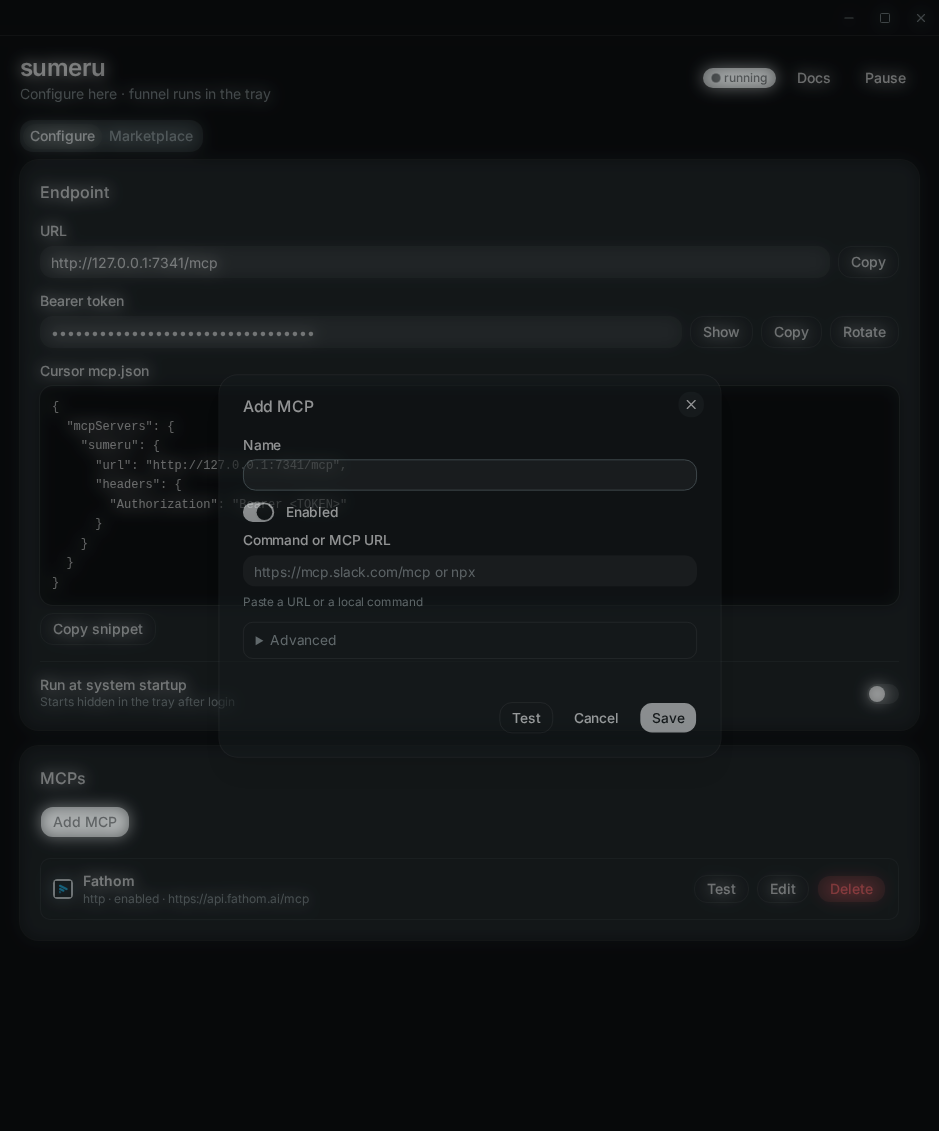
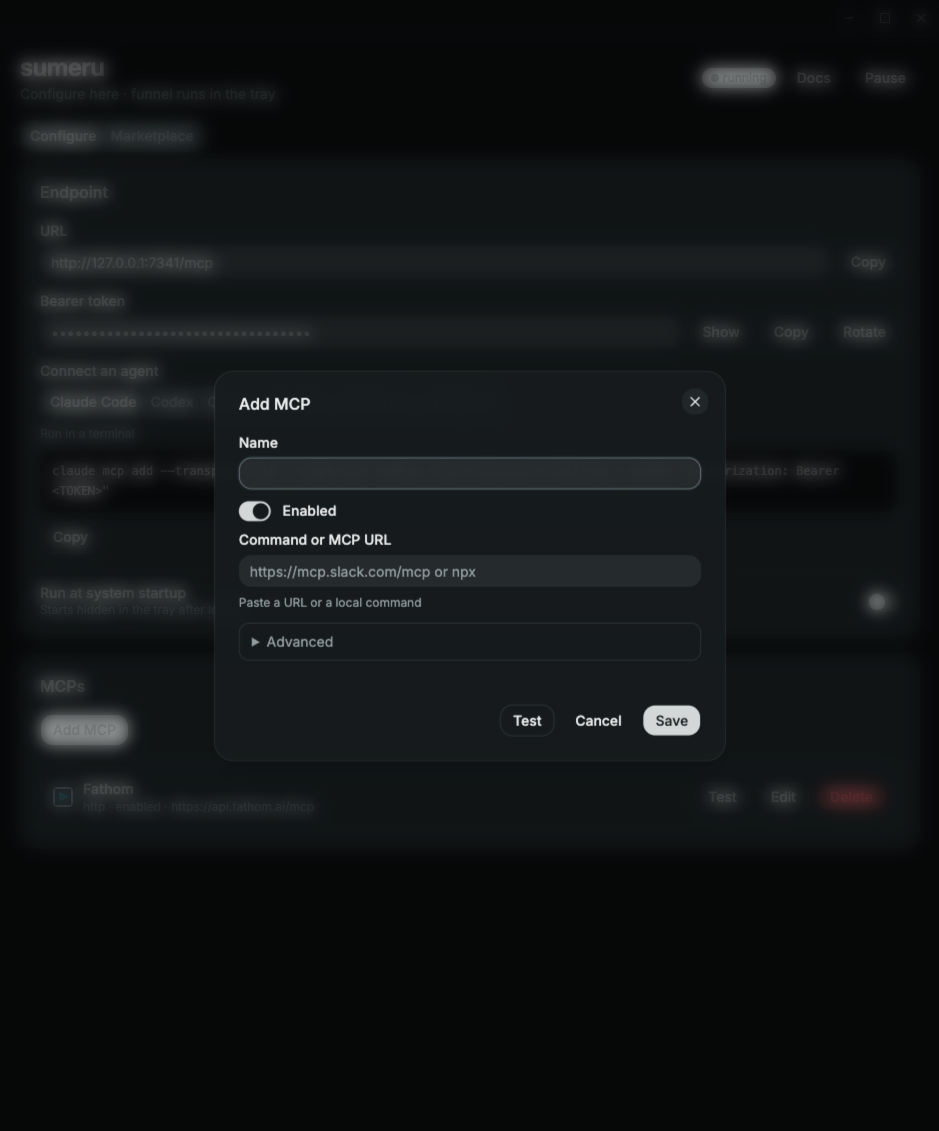
feat: connect an agent from Configure
Replace the Cursor-only snippet with a picker for Claude Code, Codex,
Cursor, VS Code, Gemini CLI, and Windsurf. Cursor and VS Code get
one-click install deeplinks; the rest get a copyable command or config
snippet. Copy/install always use the real token while the preview stays
masked. open_url now also allows cursor: and vscode: deeplinks.

Docs: connect-cursor cookbook becomes connect-agent; screenshots
regenerated.

diff --git a/src/components/Endpoint.svelte b/src/components/Endpoint.svelte
@@ -11,29 +11,21 @@
   import { Switch } from "$lib/components/ui/switch/index.js";
   import * as Card from "$lib/components/ui/card/index.js";
   import { Separator } from "$lib/components/ui/separator/index.js";
+  import * as Tabs from "$lib/components/ui/tabs/index.js";
+  import { agentInstalls } from "$lib/agents.js";
 
   let { status, token, autostart = $bindable(false), refresh } = $props();
 
   let revealToken = $state(false);
 
-  const snippet = $derived(
-    JSON.stringify(
-      {
-        mcpServers: {
-          sumeru: {
-            url: status?.endpoint ?? "",
-            headers: {
-              Authorization: revealToken
-                ? `Bearer ${token}`
-                : "Bearer <TOKEN>",
-            },
-          },
-        },
-      },
-      null,
-      2,
-    ),
-  );
+  let agent = $state("claude-code");
+
+  /**
+   * Inputs: bearer token or placeholder. Outputs: selected agent install recipe.
+   */
+  const install = (t) =>
+    agentInstalls(status?.endpoint ?? "", t).find((a) => a.id === agent);
+  const shown = $derived(install(revealToken ? token : "<TOKEN>"));
 
   /**
    * Inputs: text. Outputs: clipboard write or user-facing error.
@@ -41,6 +33,17 @@
   async function copy(text) {
     try {
       await navigator.clipboard.writeText(text);
+    } catch (e) {
+      alert(String(e));
+    }
+  }
+
+  /**
+   * Inputs: agent deeplink. Outputs: agent install prompt opened, or user-facing error.
+   */
+  async function openLink(url) {
+    try {
+      await api.openUrl(url);
     } catch (e) {
       alert(String(e));
     }
@@ -103,11 +106,24 @@
       </div>
     </div>
     <div class="grid gap-2">
-      <Label>Cursor mcp.json</Label>
+      <Label>Connect an agent</Label>
+      <Tabs.Root bind:value={agent}>
+        <Tabs.List>
+          {#each agentInstalls("", "") as a (a.id)}
+            <Tabs.Trigger value={a.id}>{a.name}</Tabs.Trigger>
+          {/each}
+        </Tabs.List>
+      </Tabs.Root>
+      <p class="text-muted-foreground text-xs m-0">{shown.hint}</p>
       <pre
-        class="m-0 overflow-auto rounded-2xl bg-background p-3 font-mono text-xs leading-relaxed text-foreground ring-1 ring-foreground/10"
-      >{snippet}</pre>
-      <Button variant="outline" class="w-fit" onclick={() => copy(snippet)}>Copy snippet</Button>
+        class="m-0 overflow-auto whitespace-pre-wrap break-words rounded-2xl bg-background p-3 font-mono text-xs leading-relaxed text-foreground ring-1 ring-foreground/10"
+      >{shown.text}</pre>
+      <div class="flex gap-2 flex-wrap">
+        {#if shown.link}
+          <Button onclick={() => openLink(install(token).link)}>Add to {shown.name}</Button>
+        {/if}
+        <Button variant="outline" onclick={() => copy(install(token).text)}>Copy</Button>
+      </div>
     </div>
     <Separator />
     <div class="flex items-center justify-between gap-4">

diff --git a/src/lib/agents.js b/src/lib/agents.js
@@ -1,0 +1,54 @@
+/**
+ * Build per-agent install recipes for the Sumeru endpoint.
+ *
+ * Inputs: endpoint URL, bearer token (or a placeholder for display).
+ * Outputs: `[{ id, name, hint, text, link? }]` — `text` is the command or
+ * config snippet to copy; `link` is an optional one-click install deeplink.
+ */
+export function agentInstalls(url, token) {
+  const auth = `Bearer ${token}`;
+  const headers = { Authorization: auth };
+  const json = (o) => JSON.stringify(o, null, 2);
+  const cursor = { url, headers };
+  const vscode = { type: "http", url, headers };
+  return [
+    {
+      id: "claude-code",
+      name: "Claude Code",
+      hint: "Run in a terminal",
+      text: `claude mcp add --transport http --scope user sumeru ${url} --header "Authorization: ${auth}"`,
+    },
+    {
+      id: "codex",
+      name: "Codex",
+      hint: "Paste into ~/.codex/config.toml (replace any existing [mcp_servers.sumeru])",
+      text: `[mcp_servers.sumeru]\nurl = "${url}"\nhttp_headers = { Authorization = "${auth}" }`,
+    },
+    {
+      id: "cursor",
+      name: "Cursor",
+      hint: "Click Add to Cursor, or paste into ~/.cursor/mcp.json",
+      text: json({ mcpServers: { sumeru: cursor } }),
+      link: `cursor://anysphere.cursor-deeplink/mcp/install?name=sumeru&config=${encodeURIComponent(btoa(JSON.stringify(cursor)))}`,
+    },
+    {
+      id: "vscode",
+      name: "VS Code",
+      hint: "Click Add to VS Code, or paste into your user mcp.json",
+      text: json({ servers: { sumeru: vscode } }),
+      link: `vscode:mcp/install?${encodeURIComponent(JSON.stringify({ name: "sumeru", ...vscode }))}`,
+    },
+    {
+      id: "gemini",
+      name: "Gemini CLI",
+      hint: "Run in a terminal",
+      text: `gemini mcp add --scope user --transport http --header "Authorization: ${auth}" sumeru ${url}`,
+    },
+    {
+      id: "windsurf",
+      name: "Windsurf",
+      hint: "Paste into ~/.codeium/windsurf/mcp_config.json",
+      text: json({ mcpServers: { sumeru: { serverUrl: url, headers } } }),
+    },
+  ];
+}

diff --git a/src/lib/agents.test.js b/src/lib/agents.test.js
@@ -1,0 +1,51 @@
+import assert from "node:assert/strict";
+import { describe, it } from "node:test";
+import { agentInstalls } from "./agents.js";
+
+const URL_ = "http://127.0.0.1:7341/mcp";
+const TOKEN = "tok+/=";
+const byId = (id) => agentInstalls(URL_, TOKEN).find((a) => a.id === id);
+
+describe("agent install recipes", () => {
+  it("covers each supported agent once", () => {
+    assert.deepEqual(
+      agentInstalls(URL_, TOKEN).map((a) => a.id),
+      ["claude-code", "codex", "cursor", "vscode", "gemini", "windsurf"],
+    );
+  });
+
+  it("embeds endpoint and bearer token in every snippet", () => {
+    for (const a of agentInstalls(URL_, TOKEN)) {
+      assert.ok(a.text.includes(URL_), a.id);
+      assert.ok(a.text.includes(`Bearer ${TOKEN}`), a.id);
+    }
+  });
+
+  it("builds a Cursor deeplink with base64 mcp.json config", () => {
+    const link = new URL(byId("cursor").link);
+    assert.equal(link.protocol, "cursor:");
+    assert.equal(link.searchParams.get("name"), "sumeru");
+    assert.deepEqual(JSON.parse(atob(link.searchParams.get("config"))), {
+      url: URL_,
+      headers: { Authorization: `Bearer ${TOKEN}` },
+    });
+  });
+
+  it("builds a VS Code deeplink with http server config", () => {
+    const link = byId("vscode").link;
+    assert.ok(link.startsWith("vscode:mcp/install?"));
+    assert.deepEqual(JSON.parse(decodeURIComponent(link.split("?")[1])), {
+      name: "sumeru",
+      type: "http",
+      url: URL_,
+      headers: { Authorization: `Bearer ${TOKEN}` },
+    });
+  });
+
+  it("uses each agent's config shape", () => {
+    assert.match(byId("codex").text, /^\[mcp_servers\.sumeru\]\nurl = /);
+    assert.equal(JSON.parse(byId("windsurf").text).mcpServers.sumeru.serverUrl, URL_);
+    assert.match(byId("claude-code").text, /^claude mcp add --transport http --scope user sumeru /);
+    assert.match(byId("gemini").text, /^gemini mcp add --scope user --transport http /);
+  });
+});

diff --git a/src/lib/api.js b/src/lib/api.js
@@ -71,7 +71,7 @@ export const probeMcpAuth = (args) => invoke("probe_mcp_auth", args);
 export const startMcpOauth = (args) => invoke("start_mcp_oauth", args);
 
 /**
- * Inputs: url. Outputs: void after opening in the system browser.
+ * Inputs: http(s) URL or Cursor/VS Code deeplink. Outputs: void after opening it.
  */
 export const openUrl = (url) => invoke("open_url", { url });
 

diff --git a/src-tauri/src/lib.rs b/src-tauri/src/lib.rs
@@ -273,12 +273,12 @@ fn set_autostart(app: tauri::AppHandle, enabled: bool) -> Result<(), String> {
     .map_err(|e| e.to_string())
 }
 
-/// Inputs: http(s) URL. Outputs: unit after opening in the system browser.
+/// Inputs: http(s) URL or Cursor/VS Code MCP install deeplink. Outputs: unit after opening it.
 #[tauri::command]
 fn open_url(url: String) -> Result<(), String> {
     let parsed = url::Url::parse(&url).map_err(|e| e.to_string())?;
-    if !matches!(parsed.scheme(), "http" | "https") {
-        return Err("only http(s) URLs can be opened".into());
+    if !matches!(parsed.scheme(), "http" | "https" | "cursor" | "vscode") {
+        return Err("only http(s), cursor, and vscode URLs can be opened".into());
     }
     open::that(url).map_err(|e| e.to_string())
 }

diff --git a/docs/cookbook/rotate-token.md b/docs/cookbook/rotate-token.md
@@ -5,7 +5,6 @@
 ![Configure tab showing the bearer token row with Rotate](/images/configure.png)
 
 2. In the bearer token row, click **Rotate**
-3. Copy the new token
-4. Update every MCP host config that still has the old `Authorization: Bearer …` value
+3. Re-add Sumeru to each agent from **Connect an agent** (see [Connect your agent](./connect-agent.md)), or update any other MCP host config that still has the old `Authorization: Bearer …` value
 
 Old tokens stop working immediately. The new token is stored in the OS keychain (`sumeru` / `endpoint-token`).

diff --git a/README.md b/README.md
@@ -64,6 +64,8 @@ The funnel starts automatically on launch and keeps running in the system tray w
 - Browser `Origin` requests are rejected
 - Transport: stateless Streamable HTTP with JSON POSTs; GET `/mcp` returns a keep-alive SSE stream
 
+**Configure → Connect an agent** builds the install command/snippet for Claude Code, Codex, Cursor, VS Code, Gemini CLI, and Windsurf, with one-click **Add to Cursor** / **Add to VS Code** deeplinks (`src/lib/agents.js`).
+
 Example client config:
 
 ```json

diff --git a/docs/getting-started.md b/docs/getting-started.md
@@ -9,7 +9,7 @@
 
 ![Marketplace tab with curated providers and Install buttons](/images/marketplace.png)
 
-4. Point your MCP host (Cursor, etc.) at the funnel endpoint with the bearer token.
+4. Connect your agent from **Configure → Connect an agent** (Claude Code, Codex, Cursor, VS Code, Gemini CLI, Windsurf) — see [Connect your agent](./cookbook/connect-agent.md).
 
 ## Tray and pause
 

diff --git a/docs/endpoint.md b/docs/endpoint.md
@@ -7,6 +7,8 @@
 
 ## Example client config
 
+**Configure → Connect an agent** generates this for Claude Code, Codex, Cursor, VS Code, Gemini CLI, and Windsurf (one-click for Cursor and VS Code). See [Connect your agent](./cookbook/connect-agent.md).
+
 ```json
 {
   "mcpServers": {
